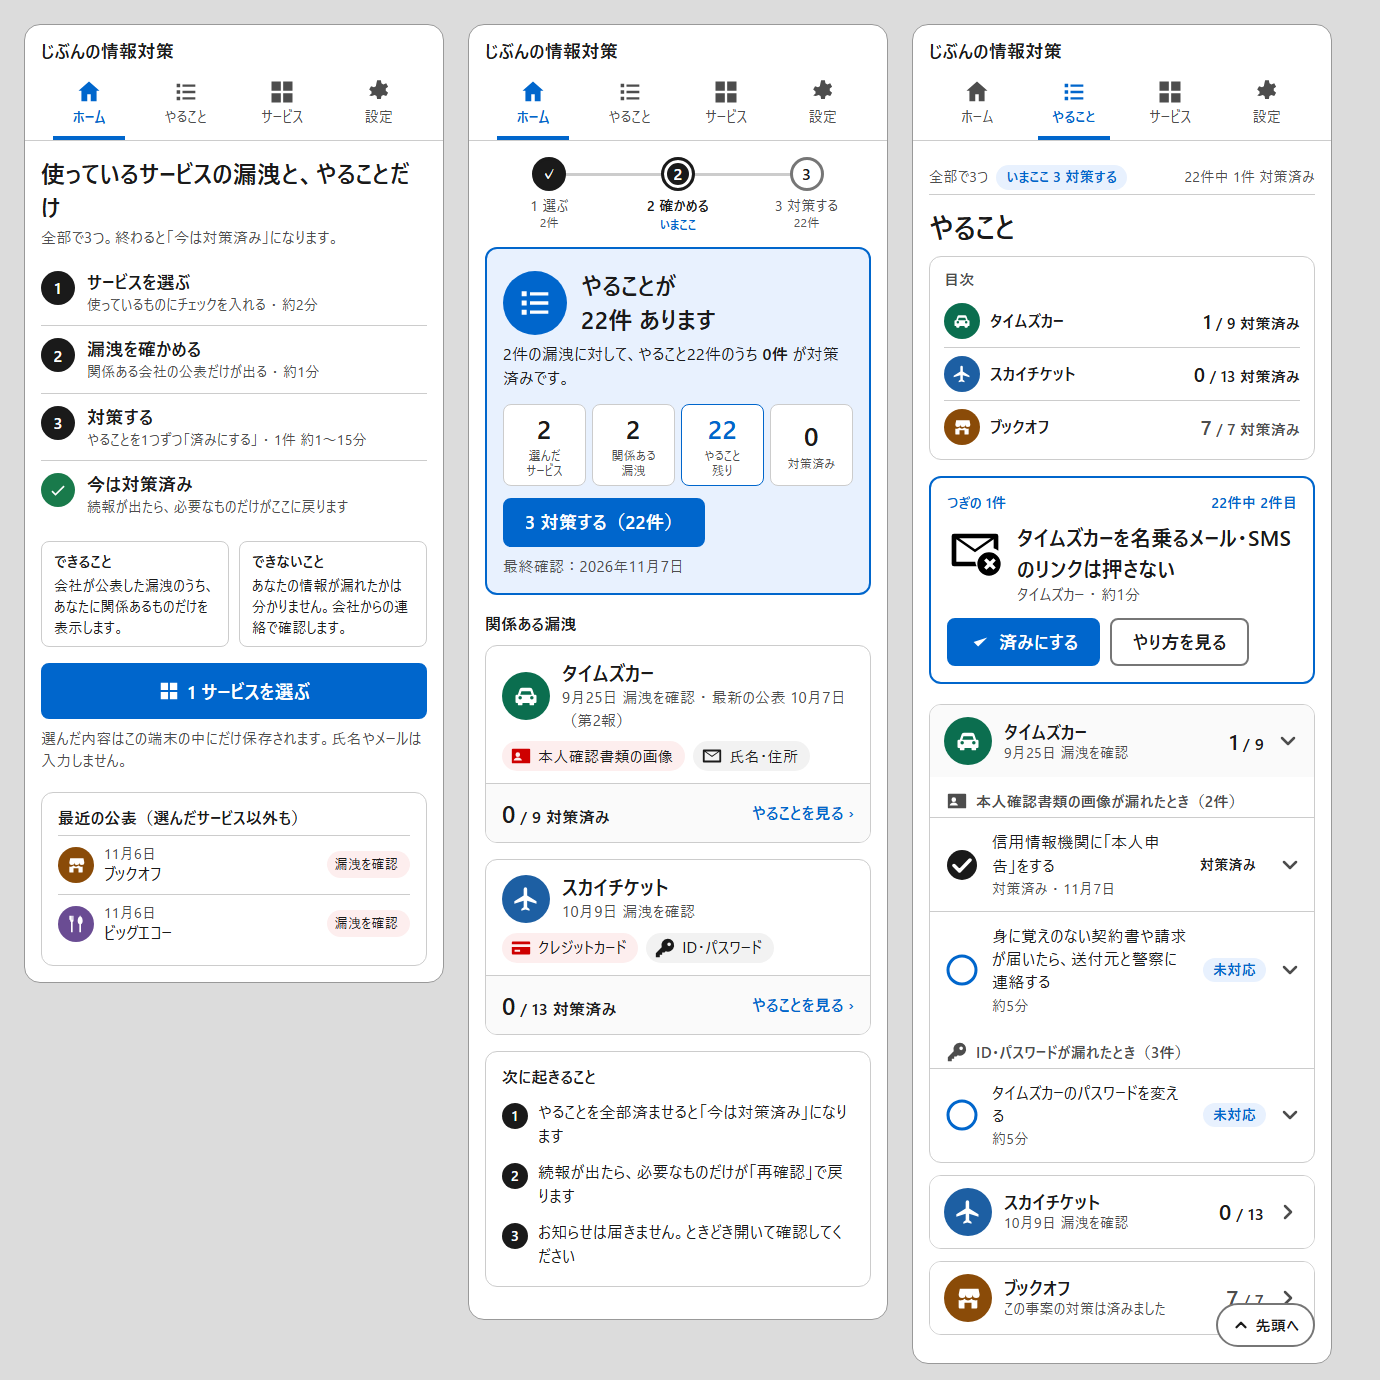
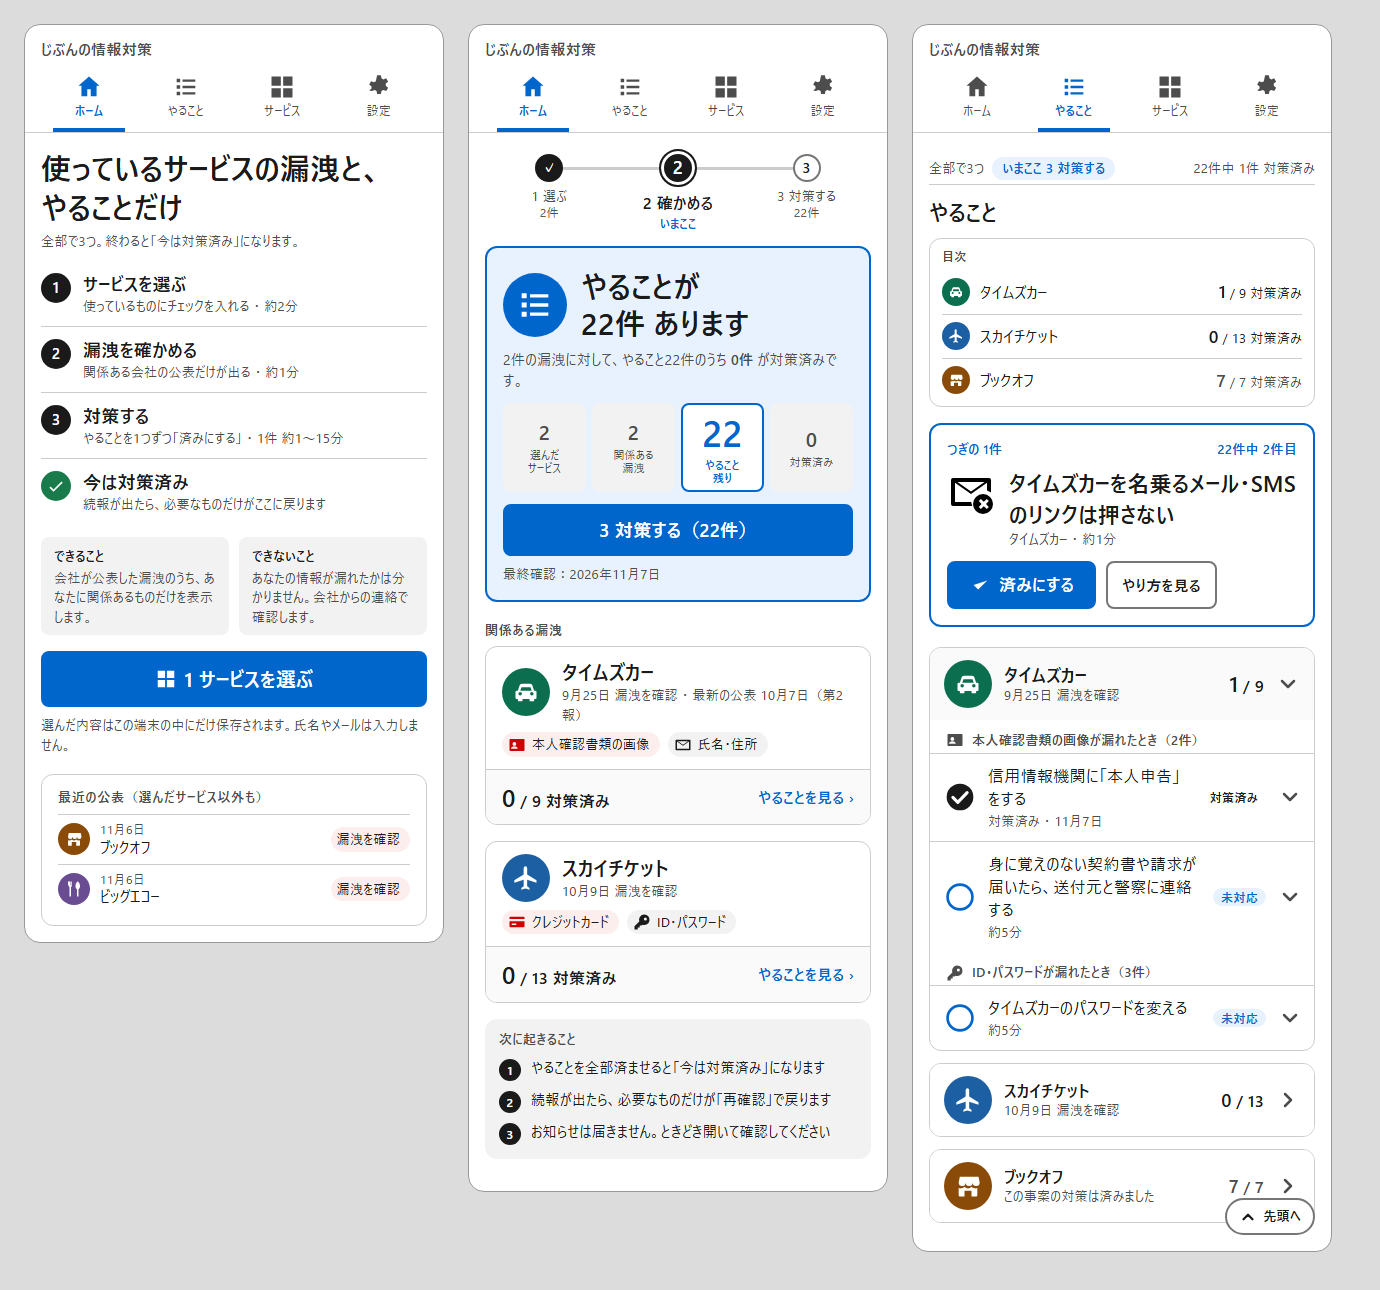
docs: メリハリ（4段階の文字と強弱）の規則を第3弾の設計案と CLAUDE.md に追加、モックに反映
- 30/22/16/13 の4段階。各画面で最大は1つ、22pxは3つまで、補足は13px灰
- 工程バーは現在の工程だけ大きく、数字4個は「やること残り」だけ36px
- 重要でない要素は枠線を消して薄い背景に

diff --git a/docs/mockups/overview-proposal.html b/docs/mockups/overview-proposal.html
@@ -194,13 +194,80 @@ svg{display:inline-block;vertical-align:middle;flex:none}
 .phone{position:relative}
 .hero .sum{margin:6px 0 0;font-size:16px;line-height:1.5;color:var(--text)}
 </style>
+<style>
+/* メリハリ：4段階の文字（30 / 22 / 16 / 13）。1画面に30pxは1つ、22pxは3つまで。補足はすべて13px灰 */
+.brand{font-size:15px;color:var(--text2)}
+.nav a{font-size:12px}
+.cap{font-size:13px}
+.sec{font-size:13px;font-weight:700;color:var(--text2);margin:18px 0 6px;letter-spacing:.06em}
+/* 工程バー：現在だけ大きく */
+.journey li{font-size:13px}
+.journey li.cur{font-size:16px}
+.journey .dot{width:28px;height:28px;font-size:14px;border-width:2px;margin-top:5px}
+.journey li.cur .dot{width:38px;height:38px;font-size:18px;margin-top:0;box-shadow:inset 0 0 0 3px #fff,inset 0 0 0 16px var(--text)}
+.journey li::before{top:18px}
+.journey .here{font-size:12px}
+.journey .t{font-size:12px}
+/* ホーム（未選択） */
+.steps-home .num{width:30px;height:30px;font-size:15px}
+.steps-home b{font-size:18px}
+.steps-home small{font-size:13px}
+.cando div{font-size:13px;color:var(--text2);border-color:transparent;background:var(--sunken)}
+.cando b{font-size:13px;color:var(--text)}
+.recent .r{font-size:14px;min-height:44px;padding:6px 0}
+.recent .r .d{font-size:12px}
+.recent .avatar{width:32px;height:32px}.recent .avatar svg{width:18px;height:18px}
+/* ホーム（選択後）：見出し30、残り件数36、ほかの数字は20灰 */
+.hero .sum{font-size:14px;color:var(--text2)}
+.hero .btn{width:100%;min-height:52px;font-size:18px}
+.nums{gap:6px;margin:12px 0 12px}
+.nums a{min-height:auto;padding:6px 4px;border-color:transparent;background:var(--sunken)}
+.nums .n{font-size:20px;color:var(--text2)}
+.nums .l{font-size:11px}
+.nums a.todo{background:#fff;border:2px solid var(--accent)}
+.nums a.todo .n{font-size:36px;color:var(--accent)}
+.nums a.todo .l{color:var(--accent);font-weight:700}
+.chip{font-size:13px;padding:3px 10px 3px 6px}
+.chip svg{width:18px;height:18px}
+.card .ch{padding:12px 16px 8px}
+.cf{padding:8px 16px}
+.cf .sm{font-size:15px}
+.next-what{border:0;background:var(--sunken);padding:10px 14px}
+.next-what .h{font-size:13px;color:var(--text2)}
+.next-what li{font-size:14px;padding:4px 0}
+.next-what .num{width:22px;height:22px;font-size:12px;margin-top:2px}
+/* やること：つぎの1件が主役、目次と一覧の補足は13px */
+.jline{font-size:13px}
+.toc{padding:8px 12px 4px}
+.toc .h{font-size:12px}
+.toc a{min-height:44px;padding:6px 0}
+.toc .nm{font-weight:400;font-size:15px}
+.toc .cnt{font-size:13px;font-weight:400}
+.toc .cnt b{font-size:17px}
+.toc .avatar{width:28px;height:28px}.toc .avatar svg{width:16px;height:16px}
+.next .lab{font-size:13px}
+.next .body svg{width:48px;height:48px}
+.next .body h2{font-size:22px;line-height:1.4}
+.next .acts .btn{font-size:17px}
+.next .acts .btn.ghost{font-size:15px;min-height:44px;padding:6px 14px}
+.fold .fh .nm small{font-size:13px}
+.fold.closed .fh .nm{font-size:16px}
+.fold.closed .fh .cnt b{font-size:18px}
+.sub{font-size:13px;padding:10px 16px 2px}
+.sub svg{width:18px;height:18px}
+.task{min-height:56px;padding:10px 12px 10px 14px}
+.task .st{width:32px;height:32px}
+.task .tt small{font-size:13px}
+.tag{font-size:12px;padding:1px 8px}
+.totop{font-size:13px;padding:6px 12px}
+</style>
 <div class="row3">
 
 <div class="phone">
  <div class="hd"><div class="brand">じぶんの情報対策</div>
   <div class="nav"><a class="cur"><svg><use href="#home"/></svg>ホーム</a><a><svg><use href="#list"/></svg>やること</a><a><svg><use href="#grid"/></svg>サービス</a><a><svg><use href="#gear"/></svg>設定</a></div></div>
  <div class="screen">
-  <h1 style="margin:6px 0 2px;font-size:24px">使っているサービスの漏洩と、やることだけ</h1>
+  <h1 style="margin:6px 0 4px;font-size:30px;line-height:1.3">使っているサービスの漏洩と、<br>やることだけ</h1>
   <div class="cap" style="margin-bottom:10px">全部で3つ。終わると「今は対策済み」になります。</div>
   <ol class="steps-home">
    <li><span class="num">1</span><div><b>サービスを選ぶ</b><small>使っているものにチェックを入れる ・ 約2分</small></div></li>
@@ -212,9 +279,9 @@ svg{display:inline-block;vertical-align:middle;flex:none}
    <div><b>できること</b>会社が公表した漏洩のうち、あなたに関係あるものだけを表示します。</div>
    <div><b>できないこと</b>あなたの情報が漏れたかは分かりません。会社からの連絡で確認します。</div>
   </div>
-  <a class="btn" style="width:100%;min-height:56px;font-size:19px"><svg><use href="#grid"/></svg>1 サービスを選ぶ</a>
+  <a class="btn" style="width:100%;min-height:56px;font-size:20px"><svg><use href="#grid"/></svg>1 サービスを選ぶ</a>
   <div class="cap" style="margin-top:8px">選んだ内容はこの端末の中にだけ保存されます。氏名やメールは入力しません。</div>
-  <div class="recent" style="margin-top:20px"><div style="font-weight:700;margin-bottom:4px">最近の公表（選んだサービス以外も）</div>
+  <div class="recent" style="margin-top:20px"><div class="sec" style="margin-top:0">最近の公表（選んだサービス以外も）</div>
    <div class="r"><div class="avatar" style="background:var(--c-shop)"><svg><use href="#store"/></svg></div><div style="flex:1"><span class="d">11月6日</span>ブックオフ</div><span class="chip strong" style="font-size:13px">漏洩を確認</span></div>
    <div class="r"><div class="avatar" style="background:var(--c-kara)"><svg><use href="#food"/></svg></div><div style="flex:1"><span class="d">11月6日</span>ビッグエコー</div><span class="chip strong" style="font-size:13px">漏洩を確認</span></div>
   </div>
@@ -231,7 +298,7 @@ svg{display:inline-block;vertical-align:middle;flex:none}
    <li><span class="dot">3</span><span class="lbl">3 対策する<span class="t">22件</span></span></li>
   </ol>
   <div class="hero">
-   <div class="top"><div class="bigicon"><svg><use href="#list"/></svg></div><h1 style="font-size:24px">やることが<br>22件 あります</h1></div>
+   <div class="top"><div class="bigicon"><svg><use href="#list"/></svg></div><h1 style="font-size:30px;line-height:1.25">やることが<br>22件 あります</h1></div>
    <p class="sum">2件の漏洩に対して、やること22件のうち <b>0件</b> が対策済みです。</p>
    <div class="nums">
     <a><span class="n">2</span><span class="l">選んだ<br>サービス</span></a>
@@ -242,7 +309,7 @@ svg{display:inline-block;vertical-align:middle;flex:none}
    <a class="btn">3 対策する（22件）</a>
    <div class="cap" style="margin-top:8px">最終確認：2026年11月7日</div>
   </div>
-  <div style="font-weight:700;margin:16px 0 8px">関係ある漏洩</div>
+  <div class="sec">関係ある漏洩</div>
   <div class="card">
    <div class="ch"><div class="avatar" style="background:var(--c-mob)"><svg><use href="#car"/></svg></div><div><div style="font-weight:700;font-size:20px;line-height:1.3">タイムズカー</div><div class="cap">9月25日 漏洩を確認 ・ 最新の公表 10月7日（第2報）</div></div></div>
    <div class="chips"><span class="chip strong"><svg><use href="#idcard"/></svg>本人確認書類の画像</span><span class="chip"><svg><use href="#mail"/></svg>氏名・住所</span></div>
@@ -268,7 +335,7 @@ svg{display:inline-block;vertical-align:middle;flex:none}
   <div class="nav"><a><svg><use href="#home"/></svg>ホーム</a><a class="cur"><svg><use href="#list"/></svg>やること</a><a><svg><use href="#grid"/></svg>サービス</a><a><svg><use href="#gear"/></svg>設定</a></div></div>
  <div class="screen">
   <div class="jline">全部で3つ <span class="pill">いまここ 3 対策する</span><span style="margin-left:auto">22件中 1件 対策済み</span></div>
-  <h1 style="margin:0 0 10px">やること</h1>
+  <h1 style="margin:0 0 10px;font-size:22px">やること</h1>
   <div class="toc"><div class="h">目次</div>
    <a><span class="avatar" style="background:var(--c-mob)"><svg><use href="#car"/></svg></span><span class="nm">タイムズカー</span><span class="cnt"><b>1</b> / 9 対策済み</span></a>
    <a><span class="avatar" style="background:var(--c-air)"><svg><use href="#plane"/></svg></span><span class="nm">スカイチケット</span><span class="cnt"><b>0</b> / 13 対策済み</span></a>

diff --git a/docs/ux-overview-research.md b/docs/ux-overview-research.md
@@ -132,6 +132,24 @@
 - 維持するもの：絵＋文字ラベルの併記（一般成人でもアイコン単独は誤解が多い。NN/g「Icon Usability」）、状態の形＋色＋文字、アクセント #0066CC（白地 5.57:1 で全年齢に十分。変える理由が無い）、ライト既定・ダーク追従。
 - 高齢の家族が使う場合は OS の文字拡大に追従させる（サイズは rem 指定）。専用の「大きな文字モード」は作らない。
 
+### 4.7 メリハリ（重要なものは大きく、重要でないものは小さく）
+
+開発者の指示（2026-11-07）：「重要な項目は大きく、重要ではない項目は小さく。メリハリが重要」。文字の大きさを4段階に固定し、各画面で「いちばん読んでほしいもの」を1つだけ最大にする。
+
+| 段 | 大きさ | 使う場所 | 1画面あたり |
+| --- | --- | --- | --- |
+| 1 | 30px 太字（数字は36px） | 状態の要約（「やることが 22件 あります」）、タグライン、「やること残り」の数字 | 1つ |
+| 2 | 22px 太字 | つぎの1件の行動名、事案名（20px）、事案の件数（24px）、主ボタン（18px） | 3つまで |
+| 3 | 16px | 本文、やることの行の題名、工程の説明 | 制限なし |
+| 4 | 13px 灰色 | 日付、所要時間、注記、目次、節の見出し、ナビ、補助ボタン | 制限なし |
+
+- 段と段の差は最低1.3倍にし、見た瞬間に順位が分かるようにする（2段階しか無い現行の 18／15 は差が小さい）。
+- **同じ種類の要素でも重要度で大きさを変える**：工程バーは現在の工程だけ16px太字＋大きい丸、ほかは13px灰。数字4個は「やること残り」だけ36px青枠、ほかは20px灰で枠なし。事案の折りたたみは閉じているものを16pxに下げる。
+- **重要でないものは色も弱める**：補足は灰色（text-2）、枠線を消して薄い背景（sunken）にする。できること・できないこと、次に起きること、目次はこの扱い。
+- **重要なものは大きさ＋太さ＋枠**の3つで目立たせ、色だけに頼らない。主ボタンは画面幅いっぱい、補助ボタンは小さい枠線だけ。
+- 1画面に30pxの要素が2つ以上あれば、どちらかを22pxに下げる。迷ったら「利用者が次にする行動に近いほう」を大きくする。
+- 見た目の確認は [mockups/overview-proposal.png](mockups/overview-proposal.png)。
+
 ## 5. 既存設計との整合
 
 - 第1弾の状態語彙（未対応／対策済み／再確認）、第2弾の視覚言語（塗りアイコン＋ラベル、状態の形、カテゴリ丸）はそのまま使う。
@@ -146,7 +164,7 @@
 | 2 | ホーム：空状態の作り直し、数字4個のタップ対応、対策済み状態の「次に起きること」 |
 | 3 | やること：目次、事案の折りたたみ、「上へ」ボタン、小見出しの件数 |
 | 4 | 事案カードの「最新の公表」、事案別ページの目次と登録の説明 |
-| 5 | 文字と密度のトークン更新（16px／1.6／56px）、利用者向け文言の漢字化と用語方針の反映（cards.json、app.js、build.mjs の見出し・ボタン） |
+| 5 | 文字と密度のトークン更新（16px／1.6／56px）と4段階のメリハリ（§4.7）、利用者向け文言の漢字化と用語方針の反映（cards.json、app.js、build.mjs の見出し・ボタン） |
 | 6 | ライト／ダーク確認、CLAUDE.md の画面設計・文体を更新 |
 
 第1〜2弾と同じく1本の PR の規模。

diff --git a/CLAUDE.md b/CLAUDE.md
@@ -78,6 +78,7 @@
 - 会社はロゴを使わず「カテゴリのアイコン＋カテゴリ固定色の丸＋名前」。漏れた情報の種類はアイコン＋文字のチップ。やり方は番号つき手順、禁止は赤い○斜線、しなくてよいことは破線枠。
 - アイコンは `assets/icons/*.svg`（Tabler filled＝MIT、自作）。ビルドが `<path>` だけを取り出し HTML 内スプライトにし、`<use href="#i-…">` で参照する。ライセンスは THIRD_PARTY_NOTICES.md。
 - 進捗は件数（「2 / 5 対策済み」）。
+- **メリハリ**：文字は4段階（30px太字／22px太字／16px／13px灰）。各画面で最大の要素は1つ（状態の要約や「やること残り」の数字）、22pxは3つまで、日付・所要時間・注記・目次・ナビは13px灰。重要でないものは枠線を消して薄い背景に、重要なものは大きさ＋太さ＋枠で示す（docs/ux-overview-research.md §4.7）。
 - トークン：本文18px、行間1.75、ウェイト400/700のみ、影なし、角丸8/12、ターゲット44px以上（行は64px）、フォーカスは黒＋黄の2重。アクセントは #0066CC（白地 5.57:1）。ライト既定、ダークはOS設定に追従。※対象変更（下記「決定事項」）により、次のUI実装で本文16px・行間1.6・行56pxに改める（docs/ux-overview-research.md §4.6）。
 - 文言：責めない、脅さない、断定しない。0件は肯定文で。手順の末尾に「※画面や手順は機種により異なります」。
 
